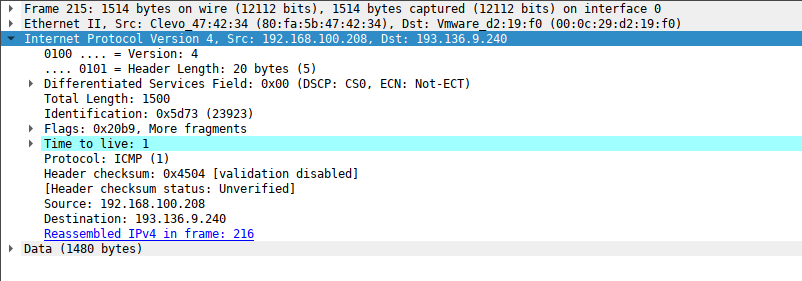
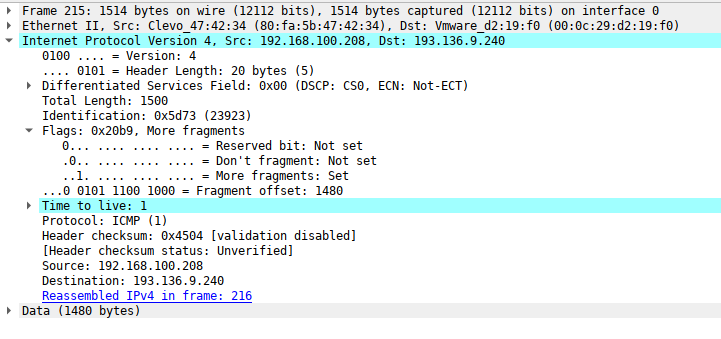
need some text review and its done  (#1)
* Update TP2.PL6.G07.tex

* Imagens alteradas

* Falta respostas do ex1 e rever todas as respostas

* fix typos

* almost done i think

diff --git a/report/TP2.PL6.G07.tex b/report/TP2.PL6.G07.tex
@@ -23,7 +23,7 @@ linkcolor=black}
 
 \begin{document}
 
-\title{TP2:  Protocolo IPv4  (Parte I)\\ 
+\title{TP2:  Protocolo IP (Parte 1 e 2)\\ 
 \large Grupo Nº 7}
 \author{João Teixeira (A85504) \and José Ferreira (A83683) \and Miguel Solino (A86435)}
 
@@ -56,12 +56,24 @@ linkcolor=black}
     \label{fig:coreEx1}
 \end{figure}
 
+\subsection{a) Active o wireshark ou o tcpdump no pc s1. Numa shell de s1, execute o comando
+traceroute -l para o endereço IP do host h5.}
+
 \begin{figure}[H]
     \centering 
     \includegraphics[width=\textwidth]{images/traceroutEx1.png}  
     \caption{Ex. 1 - Traceroute}
     \label{fig:traceroutEx1}
 \end{figure}
+
+\subsection{b) Registe e analise o tráfego ICMP enviado enviado por s1 e tráfego ICMP
+recebido como resposta. Comente os resultados face ao comportamento esperado.}
+
+Analisando os resultados obtidos reparamos que o envio de pacotes teve duas fases.
+As fases estão divididas entre os pacotes com TTL abaixo de 4 e os com TTL acima de 4.
+Na primeira fase, os pacotes com TTL = 1, TTL = 2 e TTL = 3 foram descartados pelos
+routers r1, r2 e r3, respetivamente. Para cada um destes foi recebido um pacote 
+"Time-to-live exceeded". Já na segunda fase, ao contrário dos pacotes anteriores, nenhum deles foi descartado tendo como resposta pacotes "Echo (ping) reply".
 
 \begin{figure}[H]
     \centering 
@@ -70,7 +82,19 @@ linkcolor=black}
     \label{fig:wiresharkEx1}
 \end{figure}
 
+\subsection{c) Qual deve ser o valor inicial mínimo do campo TTL para alcançar o destino h5?
+Verifique na prática que a sua respsota está correta.}
+
+Face aos resultados analisados na questão anterior verifica-se que a partir de TTL = 4
+os pacotes deixam de receber mensagem de erro como resposta, logo o valor inicial
+minimo para alcançar o destino h5 deverá ser 4.
+
+\subsection{d) Qual o valor médio do tempo de ida-e-volta (Round-Trip Time) obtido?}
+
+RTT = ((0.075 + 0.013 + 0.010) / 3 + (0.022 + 0.012 + 0.012) / 3 + (0.025 + 0.014 + 0.013) / 3 + (0.041 + 0.016 + 0.015) / 3) * 2 = 0.178
+
 \pagebreak
+
 \section{Exercício 2}
 
 \begin{figure}[H]
@@ -87,12 +111,81 @@ linkcolor=black}
     \label{fig:ipEx2}
 \end{figure}
 
+\subsection{a) Qual é o endereço IP da interface ativa do seu computador?}
+
+192.168.100.208
+
+\subsection{b) Qual é o valor do campo protocolo? O que identifica?}
+ICMP (1).
+
+O valor do campo protocolo é 1, ou seja, identifica o protocolo ICMP.
+
+\subsection{c) Quantos bytes tem o cabeçalho IP(v4)? Quantos bytes tem o
+campo de dados (payload) do datagrama? Como se calcula o tamanho 
+do payload?}
+
+O cabeçalho IP tem 20 bytes, analisando o campo Header length na 
+figura \ref{fig:Ex2}.
+
+O tamanho do campo de dados (payload) é a diferença entre o número 
+total de bytes e o tamanho do cabeçalho do datagrama:
+
+Payload = 60 - 20 = 40 bytes.
+
+\subsection{d) O datagrama IP foi fragmentado? }
+
+\begin{figure}[H]
+    \centering 
+    \includegraphics[width=\textwidth]{images/ipEx2Flags.png}
+    \caption{Ex. 2 - Flags do Cabeçalho IP}
+    \label{fig:ipEx2Flags}
+\end{figure}
+
+
+Observando a figura \ref{fig:ipEx2Flags} reparamos que no 
+campo Flags, tudo está a 0, logo o "Fragment offset" tem valor 0, o que significa
+que se existirem mais fragmentos, este será o primeiro. 
+Tendo em atenção agora a flag "More Fragments" concluímos que não existem
+mais fragmentos pois, se o valor for 1 existem, caso contrário é 0. Logo,
+se estamos no primeiro fragmento e não existem mais então este é o datagrama
+original.
+
+\subsection{e) Ordene os pacotes capturados de acordo com o endereço IP 
+fonte (e.g., selecionando o cabeçalho
+da coluna Source), e analise a sequência de tráfego ICMP gerado a partir 
+do endereço IP atribuído à interface da sua máquina. Para a sequência 
+de mensagens ICMP enviadas pelo seu computador, indique que campos do 
+cabeçalho IP variam de pacote para pacote.}
+
+Após ordenarmos, concluímos que os campos do cabeçalho IP que variam de 
+pacote para pacote são o TTL, Header Checksum e o identificador.
+
 \begin{figure}[H]
     \centering 
     \includegraphics[width=\textwidth]{images/wiresharkSourceEx2.png}
     \caption{Ex. 2 - Tráfego Wireshark ordenado por endereço fonte}
     \label{fig:wiresharkSourceEx2}
 \end{figure}
+
+\subsection{f) Observa algum padrão nos valores do campo de Identificação do datagrama IP e TTL?}
+
+Verificamos que:
+
+Identificação do datagrama IP: mantém os primeiros 8 bits (colocar aqui os bits)
+e é incrementado sequencialmente.
+
+TTL: É incrementado sequencialmente
+
+\subsection{g) Ordene o tráfego capturado por endereço destino e encontre a 
+série de repostas ICMP TTL exceeded enviadas ao seu computador. Qual é o
+valor do campo TTL? Esse valor permanece constante para todas as mensagens 
+de resposta ICMP TTL exceed enviados ao seu host? Porquê?}
+
+O valor do campo TTL é 62.
+Para todas as mensagens de resposta ICMP TTL exceeded recebidas no nosso host
+esse valor manteve-se constante. O TTL mostrado (predefinido pelo destino) é 64.
+No entanto, no final, quando o pacote chega ao destino é 61, devido a ter passado
+por 2 routers antes de chegar, sendo então decrementado 2 vezes.
 
 \begin{figure}[H]
     \centering 
@@ -111,6 +204,18 @@ linkcolor=black}
     \label{fig:datagramaIpEx3}
 \end{figure}
 
+\subsection{a) Localize a primeira mensagem ICMP. Porque é que houve 
+necessidade de fragmentar o pacote inicial?}
+
+Analisando a figura, vemos que a primeira mensagem ICMP é a 214.
+
+Porque o tamanho permitido pelo protocolo é inferior ao tamanho do PDU, sendo assim
+necessário ser fragmentado para ser possível circular na rede.
+
+\subsection{b) Imprima o primeiro fragmento do datagrama IP segmentado. 
+Que informação no cabeçalho IP indica que se trata do primeiro fragmento? 
+Qual é o tamanho deste datagrama IP?}
+
 \begin{figure}[H]
     \centering 
     \includegraphics[width=\textwidth]{images/fragmentDatagramaIpEx3.png}
@@ -118,12 +223,48 @@ linkcolor=black}
     \label{fig:fragmentDatagramaIpEx3}
 \end{figure}
 
+Podemos reparar na figura que, no campo Flags, o "More fragments" tem valor 1, isso
+indica que o diagrama foi fragmentado, existindo então mais fragmentos.
+
+Seguidamente, podemos ver que o "Fragment offset" é 0, provando de que se trata
+do primeiro fragmento.
+
+Em relação ao tamanho basta ver o "Total Length" que é 1500 bytes.
+
+\subsection{c) Imprima o segundo fragmento do datagrama IP original. Que
+informação do cabeçalho IP indica que não se trata do 1º fragmento? 
+Há mais fragmentos? O que nos permite afirmar isso?}
+
 \begin{figure}[H]
     \centering 
     \includegraphics[width=\textwidth]{images/fragment2DatagramaIpEx3.png}
     \caption{Ex.3 - Cabeçalho do segundo fragmento do datagrama IP}
     \label{fig:fragment2DatagramaIpEx3}
 \end{figure}
+
+Para se verificar se um fragmento é o primeiro basta ter em atenção o valor
+que está no "Fragment offset". Se for 0 então temos a certeza de que se trata
+do primeiro, caso contrário, é um dos seguintes.
+
+Sim, mais fragmentos existem porque o bit correspondente ao "More fragments" é 1.
+
+\subsection{d) Quantos fragmentos foram criados a partir do datagrama original?
+Como se detecta o último fragmento correspondente ao datagrama original?}
+
+Como está mostrado na imagem, o terceiro fragmento do datagrama original
+tem o bit correspondente a "More fragments" a 0, ou seja, não há mais 
+fragmentos a seguir a este. Concluindo assim que foram criados 3 fragmentos 
+(214, 215 e 216).
+
+\subsection{e) Indique, resumindo, os campos que mudam no cabeçalho IP entre 
+os diferentes fragmentos, e explique a forma como essa informação permite
+reconstruir o datagrama original.}
+
+Ao longo dos diferentes fragmentos, no cabeçalho IP, é alterado o "Fragment offset" e
+o "More Fragments". O primeiro permite identificar a posição do fragmento no 
+datagrama original, já o segundo, indica se, além deste, existem mais fragmentos do
+datagrama original.
+
 
 \chapter{Parte 2}
 
